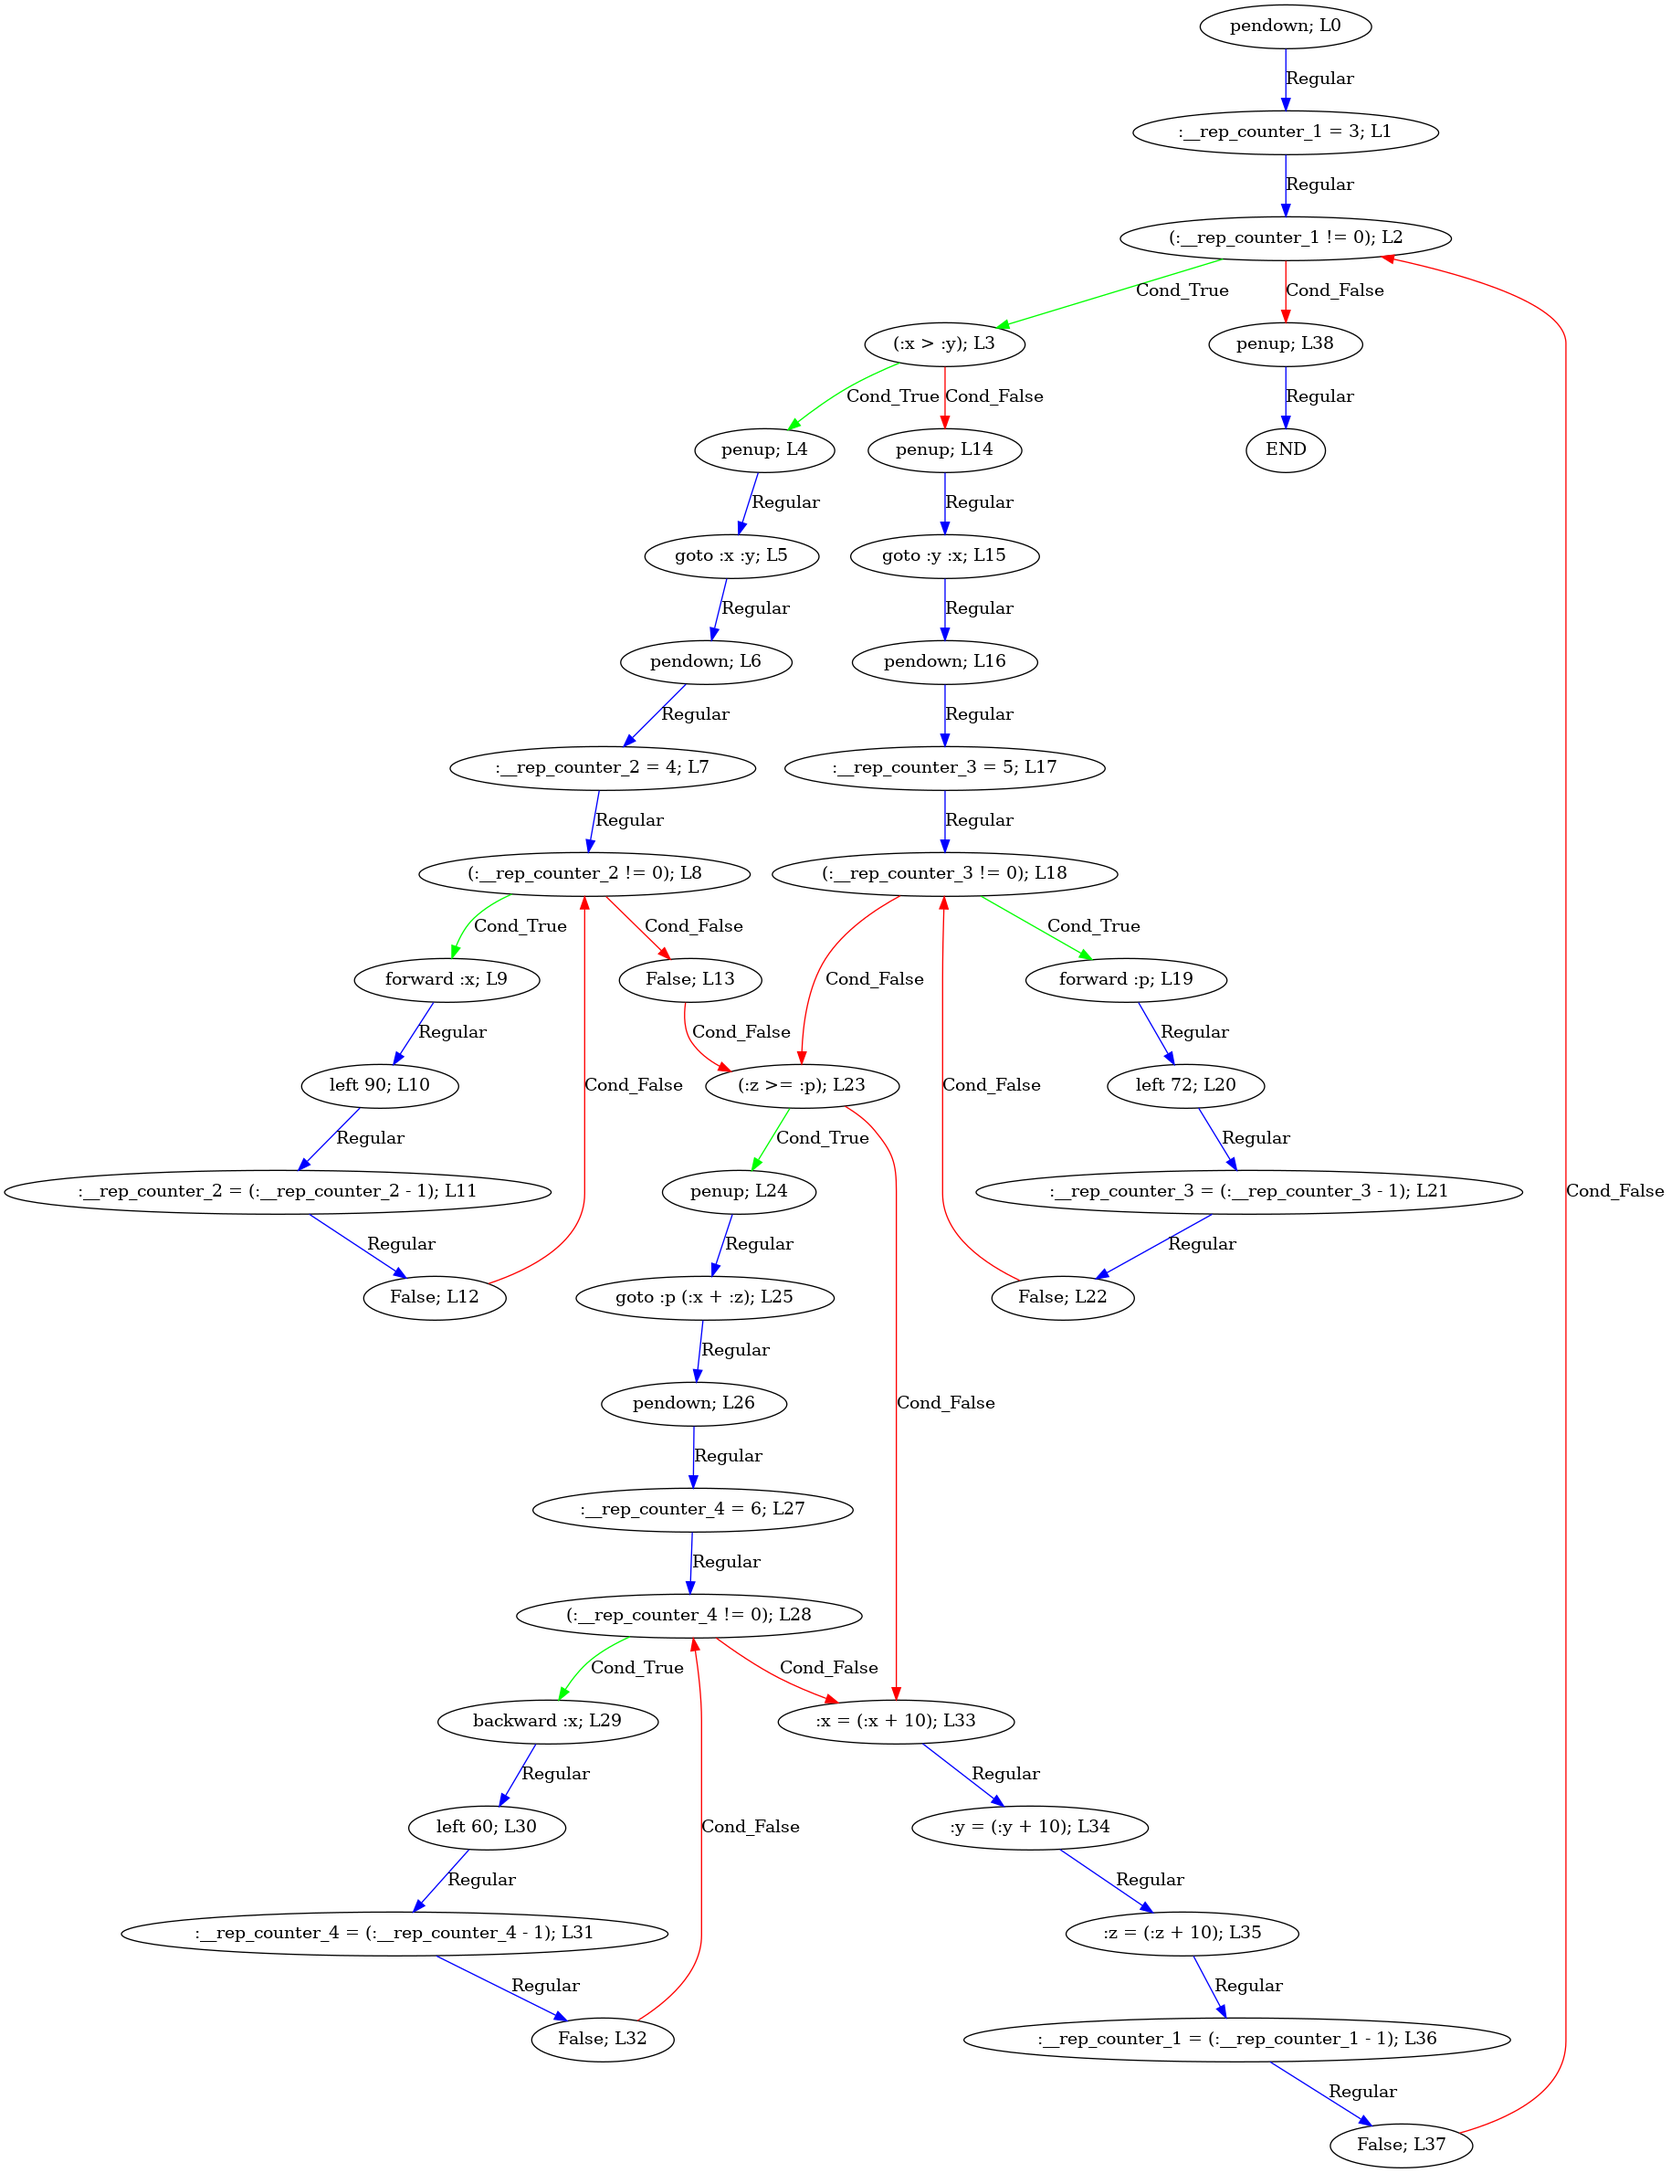
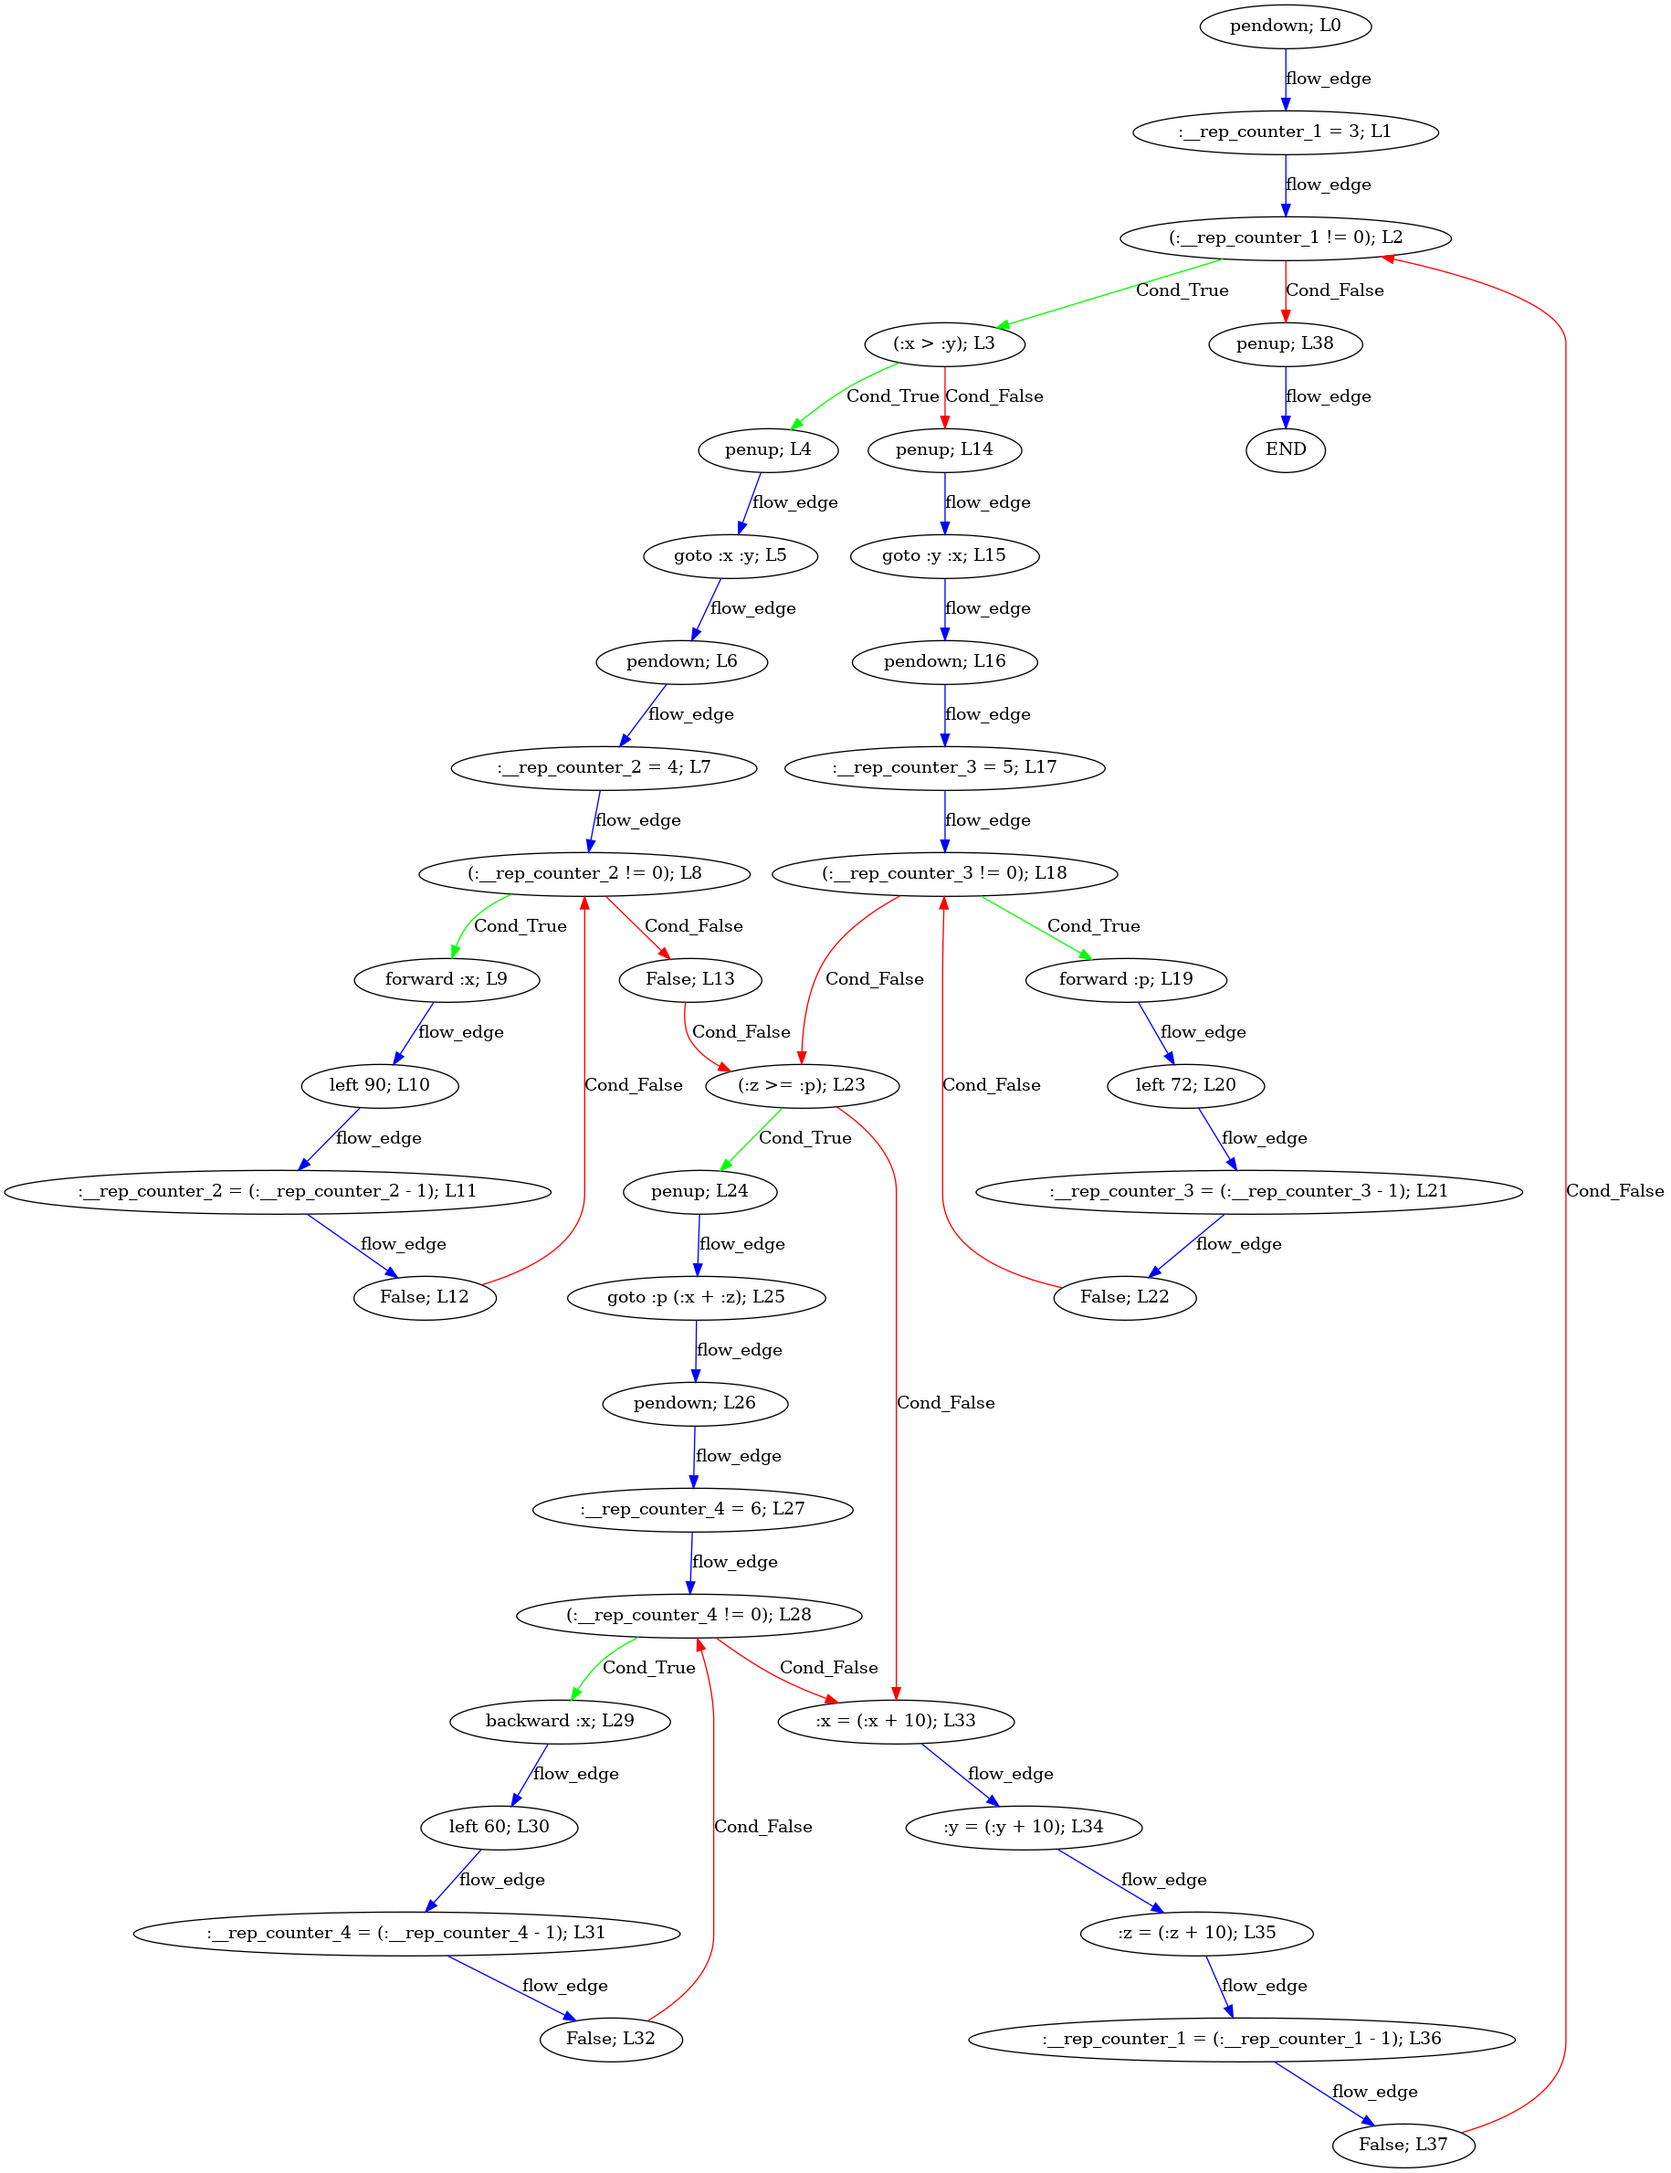
ver1 Release

diff --git a/ChironCore/turtparse/tlangParser.py b/ChironCore/turtparse/tlangParser.py
@@ -80,19 +80,19 @@ class tlangParser ( Parser ):
 
     sharedContextCache = PredictionContextCache()
 
-    literalNames = [ "<INVALID>", "'if'", "'['", "']'", "'else'", "'repeat'",
-                     "'goto'", "'('", "','", "')'", "'='", "'forward'",
-                     "'backward'", "'left'", "'right'", "'penup'", "'pendown'",
-                     "'pause'", "'+'", "'-'", "'*'", "'/'", "'pendown?'",
-                     "'<'", "'>'", "'=='", "'!='", "'<='", "'>='", "'&&'",
+    literalNames = [ "<INVALID>", "'if'", "'['", "']'", "'else'", "'repeat'", 
+                     "'goto'", "'('", "','", "')'", "'='", "'forward'", 
+                     "'backward'", "'left'", "'right'", "'penup'", "'pendown'", 
+                     "'pause'", "'+'", "'-'", "'*'", "'/'", "'pendown?'", 
+                     "'<'", "'>'", "'=='", "'!='", "'<='", "'>='", "'&&'", 
                      "'||'", "'!'" ]
 
-    symbolicNames = [ "<INVALID>", "<INVALID>", "<INVALID>", "<INVALID>",
-                      "<INVALID>", "<INVALID>", "<INVALID>", "<INVALID>",
-                      "<INVALID>", "<INVALID>", "<INVALID>", "<INVALID>",
-                      "<INVALID>", "<INVALID>", "<INVALID>", "<INVALID>",
-                      "<INVALID>", "<INVALID>", "PLUS", "MINUS", "PRODUCT",
-                      "DIV", "PENCOND", "LT", "GT", "EQ", "NEQ", "LTE",
+    symbolicNames = [ "<INVALID>", "<INVALID>", "<INVALID>", "<INVALID>", 
+                      "<INVALID>", "<INVALID>", "<INVALID>", "<INVALID>", 
+                      "<INVALID>", "<INVALID>", "<INVALID>", "<INVALID>", 
+                      "<INVALID>", "<INVALID>", "<INVALID>", "<INVALID>", 
+                      "<INVALID>", "<INVALID>", "PLUS", "MINUS", "PRODUCT", 
+                      "DIV", "PENCOND", "LT", "GT", "EQ", "NEQ", "LTE", 
                       "GTE", "AND", "OR", "NOT", "NUM", "VAR", "NAME", "Whitespace" ]
 
     RULE_start = 0
@@ -117,11 +117,11 @@ class tlangParser ( Parser ):
     RULE_logicOp = 19
     RULE_value = 20
 
-    ruleNames =  [ "start", "instruction_list", "strict_ilist", "instruction",
-                   "conditional", "ifConditional", "ifElseConditional",
-                   "loop", "gotoCommand", "assignment", "moveCommand", "moveOp",
-                   "penCommand", "pauseCommand", "expression", "binArithOp",
-                   "unaryArithOp", "condition", "binCondOp", "logicOp",
+    ruleNames =  [ "start", "instruction_list", "strict_ilist", "instruction", 
+                   "conditional", "ifConditional", "ifElseConditional", 
+                   "loop", "gotoCommand", "assignment", "moveCommand", "moveOp", 
+                   "penCommand", "pauseCommand", "expression", "binArithOp", 
+                   "unaryArithOp", "condition", "binCondOp", "logicOp", 
                    "value" ]
 
     EOF = Token.EOF
@@ -297,13 +297,13 @@ class tlangParser ( Parser ):
         self._la = 0 # Token type
         try:
             self.enterOuterAlt(localctx, 1)
-            self.state = 52
+            self.state = 52 
             self._errHandler.sync(self)
             _la = self._input.LA(1)
             while True:
                 self.state = 51
                 self.instruction()
-                self.state = 54
+                self.state = 54 
                 self._errHandler.sync(self)
                 _la = self._input.LA(1)
                 if not ((((_la) & ~0x3f) == 0 and ((1 << _la) & ((1 << tlangParser.T__0) | (1 << tlangParser.T__4) | (1 << tlangParser.T__5) | (1 << tlangParser.T__10) | (1 << tlangParser.T__11) | (1 << tlangParser.T__12) | (1 << tlangParser.T__13) | (1 << tlangParser.T__14) | (1 << tlangParser.T__15) | (1 << tlangParser.T__16) | (1 << tlangParser.VAR))) != 0)):
@@ -989,7 +989,7 @@ class tlangParser ( Parser ):
                     self.state = 123
                     self.binArithOp()
                     self.state = 124
-                    self.expression(3)
+                    self.expression(3) 
                 self.state = 130
                 self._errHandler.sync(self)
                 _alt = self._interp.adaptivePredict(self._input,5,self._ctx)
@@ -1200,7 +1200,7 @@ class tlangParser ( Parser ):
                     self.state = 150
                     self.logicOp()
                     self.state = 151
-                    self.condition(4)
+                    self.condition(4) 
                 self.state = 157
                 self._errHandler.sync(self)
                 _alt = self._interp.adaptivePredict(self._input,7,self._ctx)
@@ -1382,8 +1382,13 @@ class tlangParser ( Parser ):
     def expression_sempred(self, localctx:ExpressionContext, predIndex:int):
             if predIndex == 0:
                 return self.precpred(self._ctx, 2)
-
+         
 
     def condition_sempred(self, localctx:ConditionContext, predIndex:int):
             if predIndex == 1:
                 return self.precpred(self._ctx, 3)
+         
+
+
+
+

diff --git a/ChironCore/chiron.py b/ChironCore/chiron.py
@@ -41,12 +41,15 @@ if __name__ == "__main__":
 
     # process the command-line arguments
     cmdparser = argparse.ArgumentParser(
-        description="Program Analysis Framework for Turtle."
+        description="Program Analysis Framework for ChironLang Programs."
     )
 
     # add arguments for parsing command-line arguments
-    cmdparser.add_argument("-p", "--ir", action="store_true", help="pretty printing")
-    cmdparser.add_argument("-r", "--run", action="store_true", help="execute program")
+    cmdparser.add_argument("-p", "--ir", action="store_true",
+                    help="pretty printing the IR of a Chiron program to stdout (terminal)")
+    cmdparser.add_argument("-r", "--run", action="store_true",
+                    help="execute Chiron program, the figure/shapes the turle draws is shown in a UI.")
+
     cmdparser.add_argument(
         "-gr",
         "--fuzzer_gen_rand",
@@ -54,19 +57,19 @@ if __name__ == "__main__":
         help="Generate random input seeds for the fuzzer before fuzzing starts.",
     )
 
-    cmdparser.add_argument("-b", "--bin", action="store_true", help="load binary IR")
+    cmdparser.add_argument("-b", "--bin", action="store_true", help="load binary IR of a Chiron program")
     cmdparser.add_argument(
         "-z",
         "--fuzz",
         action="store_true",
-        help="Run fuzzer on a turtle program (seed values with '-d' or '--params' flag needed.)",
+        help="Run fuzzer on a Chiron program (seed values with '-d' or '--params' flag needed.)",
     )
     cmdparser.add_argument(
         "-t",
         "--timeout",
         default=10,
         type=float,
-        help="Timeout Parameter for Analysis (in secs)",
+        help="Timeout Parameter for Analysis (in secs). This is the total timeout.",
     )
     cmdparser.add_argument("progfl")
 
@@ -90,7 +93,7 @@ if __name__ == "__main__":
         "-se",
         "--symbolicExecution",
         action="store_true",
-        help="Run Symbolic Execution on a turtle program (seed values with '-d' or '--params' flag needed) to generate test cases along all possible paths.",
+        help="Run Symbolic Execution on a Chiron program (seed values with '-d' or '--params' flag needed) to generate test cases along all possible paths.",
     )
     # TODO: add additional arguments for parsing command-line arguments
 
@@ -98,26 +101,26 @@ if __name__ == "__main__":
         "-ai",
         "--abstractInterpretation",
         action="store_true",
-        help="Run abstract interpretation",
+        help="Run abstract interpretation on a Chiron Program.",
     )
     cmdparser.add_argument(
         "-dfa",
         "--dataFlowAnalysis",
         action="store_true",
-        help="Run data flow analysis using worklist algorithm",
+        help="Run data flow analysis using worklist algorithm on a Chiron Program.",
     )
 
     cmdparser.add_argument(
         "-sbfl",
         "--SBFL",
         action="store_true",
-        help="Run Spectrum-basedFault localizer on turtle program",
+        help="Run Spectrum-basedFault localizer on Chiron program",
     )
-    cmdparser.add_argument("-bg", "--buggy", help="buggy turtle program path", type=str)
+    cmdparser.add_argument("-bg", "--buggy", help="buggy Chiron program path", type=str)
     cmdparser.add_argument(
         "-vars",
         "--inputVarsList",
-        help="A list of input variables of given turtle program",
+        help="A list of input variables of given Chiron program",
         type=str,
     )
     cmdparser.add_argument(
@@ -166,16 +169,20 @@ if __name__ == "__main__":
         parseTree = getParseTree(args.progfl)
         astgen = astGenPass()
         ir = astgen.visitStart(parseTree)
-        irHandler.setIR(ir)
+
+
+    # Set the IR of the program.
+    irHandler.setIR(ir)
 
     # generate control_flow_graph from IR statements.
     cfg = cfgB.buildCFG(ir, "control_flow_graph", True)
     cfgB.dumpCFG(cfg, "control_flow_graph")
 
+    # set the cfg of the program.
     irHandler.setCFG(cfg)
 
     if args.ir:
-        irHandler.pretty_print()
+        irHandler.pretty_print(irHandler.ir)
 
     if args.abstractInterpretation:
         AISub.analyzeUsingAI(irHandler)

diff --git a/ChironCore/turtparse/tlangLexer.py b/ChironCore/turtparse/tlangLexer.py
@@ -143,21 +143,21 @@ class tlangLexer(Lexer):
     modeNames = [ "DEFAULT_MODE" ]
 
     literalNames = [ "<INVALID>",
-            "'if'", "'['", "']'", "'else'", "'repeat'", "'goto'", "'('",
-            "','", "')'", "'='", "'forward'", "'backward'", "'left'", "'right'",
-            "'penup'", "'pendown'", "'pause'", "'+'", "'-'", "'*'", "'/'",
-            "'pendown?'", "'<'", "'>'", "'=='", "'!='", "'<='", "'>='",
+            "'if'", "'['", "']'", "'else'", "'repeat'", "'goto'", "'('", 
+            "','", "')'", "'='", "'forward'", "'backward'", "'left'", "'right'", 
+            "'penup'", "'pendown'", "'pause'", "'+'", "'-'", "'*'", "'/'", 
+            "'pendown?'", "'<'", "'>'", "'=='", "'!='", "'<='", "'>='", 
             "'&&'", "'||'", "'!'" ]
 
     symbolicNames = [ "<INVALID>",
-            "PLUS", "MINUS", "PRODUCT", "DIV", "PENCOND", "LT", "GT", "EQ",
-            "NEQ", "LTE", "GTE", "AND", "OR", "NOT", "NUM", "VAR", "NAME",
+            "PLUS", "MINUS", "PRODUCT", "DIV", "PENCOND", "LT", "GT", "EQ", 
+            "NEQ", "LTE", "GTE", "AND", "OR", "NOT", "NUM", "VAR", "NAME", 
             "Whitespace" ]
 
-    ruleNames = [ "T__0", "T__1", "T__2", "T__3", "T__4", "T__5", "T__6",
-                  "T__7", "T__8", "T__9", "T__10", "T__11", "T__12", "T__13",
-                  "T__14", "T__15", "T__16", "PLUS", "MINUS", "PRODUCT",
-                  "DIV", "PENCOND", "LT", "GT", "EQ", "NEQ", "LTE", "GTE",
+    ruleNames = [ "T__0", "T__1", "T__2", "T__3", "T__4", "T__5", "T__6", 
+                  "T__7", "T__8", "T__9", "T__10", "T__11", "T__12", "T__13", 
+                  "T__14", "T__15", "T__16", "PLUS", "MINUS", "PRODUCT", 
+                  "DIV", "PENCOND", "LT", "GT", "EQ", "NEQ", "LTE", "GTE", 
                   "AND", "OR", "NOT", "NUM", "VAR", "NAME", "Whitespace" ]
 
     grammarFileName = "tlang.g4"
@@ -168,3 +168,5 @@ class tlangLexer(Lexer):
         self._interp = LexerATNSimulator(self, self.atn, self.decisionsToDFA, PredictionContextCache())
         self._actions = None
         self._predicates = None
+
+

diff --git a/ChironCore/irhandler.py b/ChironCore/irhandler.py
@@ -122,12 +122,11 @@ class IRHandler:
         stmtList[pos] = (ChironAST.NoOpCommand(), 1)
 
     def pretty_print(self, irList):
-        base_ir = []
-        if irList is not None:
-            base_ir = irList
-        else:
-            base_ir = self.ir
-
-            print("========== IR ==========\n")
-            for idx, item in enumerate(base_ir):
-                print(idx, item[0], " [", item[1], "]")
+        """
+            We pass a IR list and print it here.
+        """
+        print("\n========== Chiron IR ==========\n")
+        print("The first label before the opcode name represents the IR index or label \non the control flow graph for that node.\n")
+        print("The number after the opcode name represents the jump offset \nrelative to that statement.\n")
+        for idx, item in enumerate(irList):
+            print(f"[L{idx}]".rjust(5), item[0], f"[{item[1]}]")

diff --git a/ChironCore/cfg/cfgBuilder.py b/ChironCore/cfg/cfgBuilder.py
@@ -78,7 +78,7 @@ def buildCFG(ir, cfgName="", isSingle=False):
                     cfg.add_edge(node, elseBB, label='Cond_False', color='red')
             else:
                 nextBB = indices2LeadersMap[irIdx + 1] if (irIdx + 1 < len(ir)) else endBB
-                cfg.add_edge(node, nextBB, label='Regular', color='blue')
+                cfg.add_edge(node, nextBB, label='flow_edge', color='blue')
 
     return cfg
 
